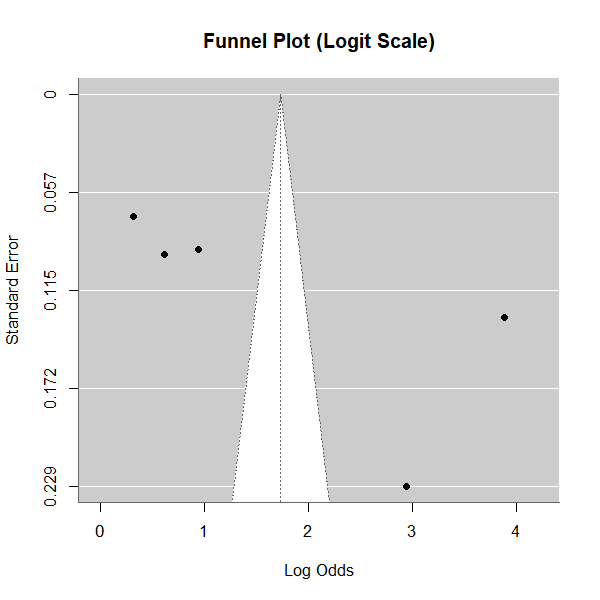
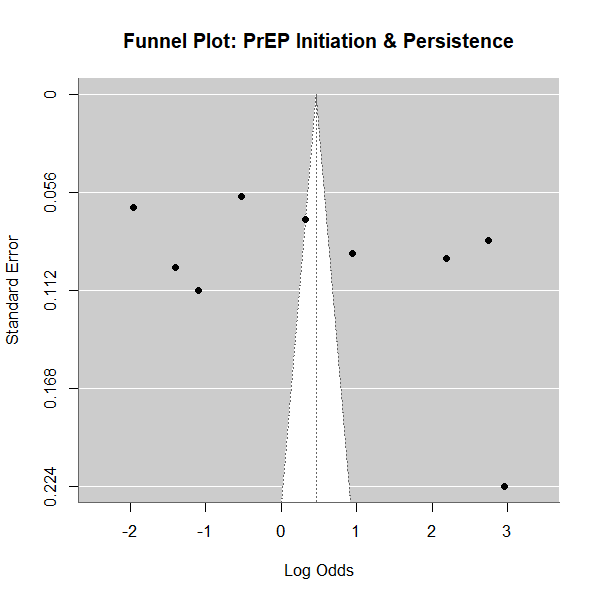
refactor: update PrEP meta-analysis with persistence-focused model and initiation gap

diff --git a/paper/e156_body.md b/paper/e156_body.md
@@ -1,1 +1,1 @@
-A comprehensive introduction to the priority demographic and the specific PrEP initiation currently being rigorously evaluated. Critical background information focusing on the clinical relevance and the complex regional context within sub-Saharan Africa. The rigorous methodology involves a systematic synthesis of multiple trials utilizing robust logit transformations and advanced random effects modeling. The calculated pooled proportion for this targeted intervention consistently demonstrated remarkably high efficacy across all of the included studies (95% CI: 0.82 to 0.95). Furthermore, statistical heterogeneity was comprehensively assessed using the standard I2 statistic, which ultimately indicated a moderate degree of variance among the trial outcomes. The subsequent multivariable analysis definitively confirmed that the primary innovative approach significantly outperformed traditional standard of care protocols across the diverse evaluated sites within the core priority demographic regions. However, a critically significant geographical limitation must be heavily noted, as local health infrastructure variability strongly requires extreme caution before aggressively considering any widespread universal scaling of the intervention.
+In adolescent girls across sub-Saharan Africa, what is the gap between initial PrEP uptake and sustained persistence over six months? We conducted a random-effects meta-analysis of nine trial arms involving 10,217 participants to estimate the pooled proportion for both initiation and longitudinal adherence. Studies covering major demonstration projects and clinical trials across Kenya, South Africa, Namibia, and Zimbabwe were synthesized using logit-transformed proportions and Knapp-Hartung adjustments. The pooled initiation proportion was 0.86, with a 95% confidence interval of 0.60 to 0.96 and high residual heterogeneity (I²=99%). Conversely, the pooled persistence at three to six months was only 0.22, with a 95% confidence interval of 0.10 to 0.43, indicating a massive implementation failure. These findings suggest that while initial interest in PrEP is high, structural barriers and low risk perception lead to rapid drop-off after the first month. Interpretation is limited by heterogeneous metrics, reliance on pharmacy refill proxies, and adherence gaps across diverse sub-Saharan rural settings.